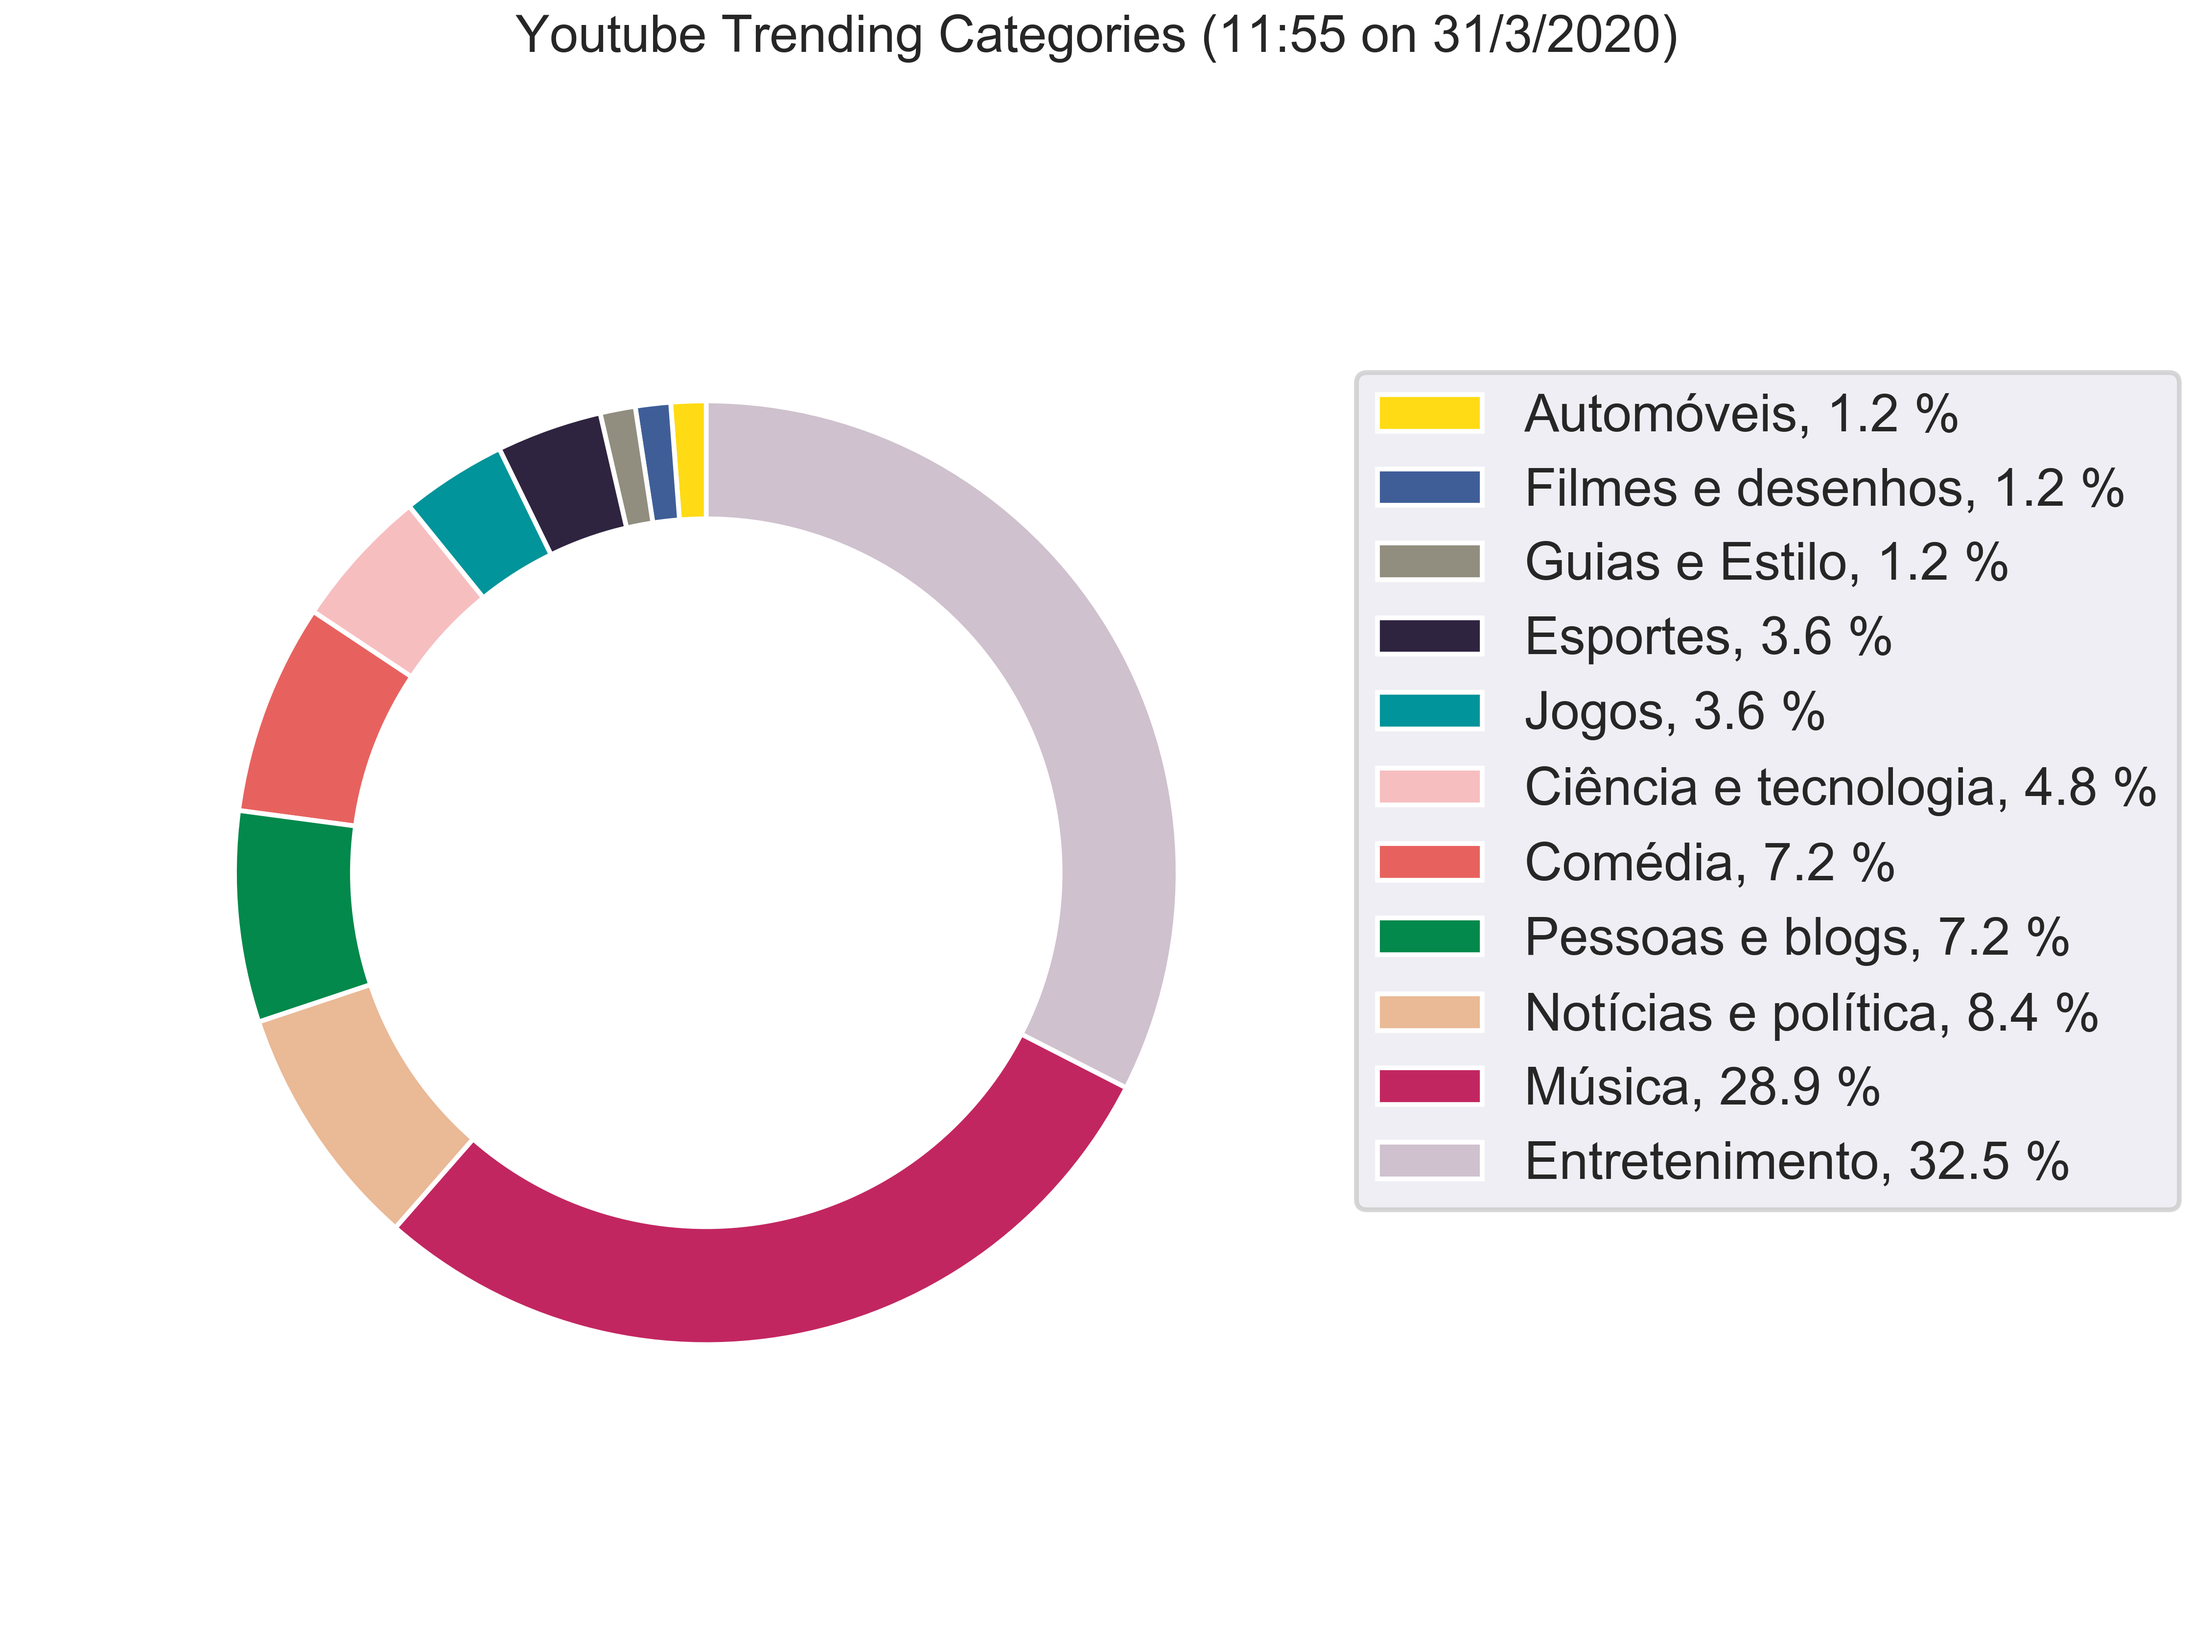
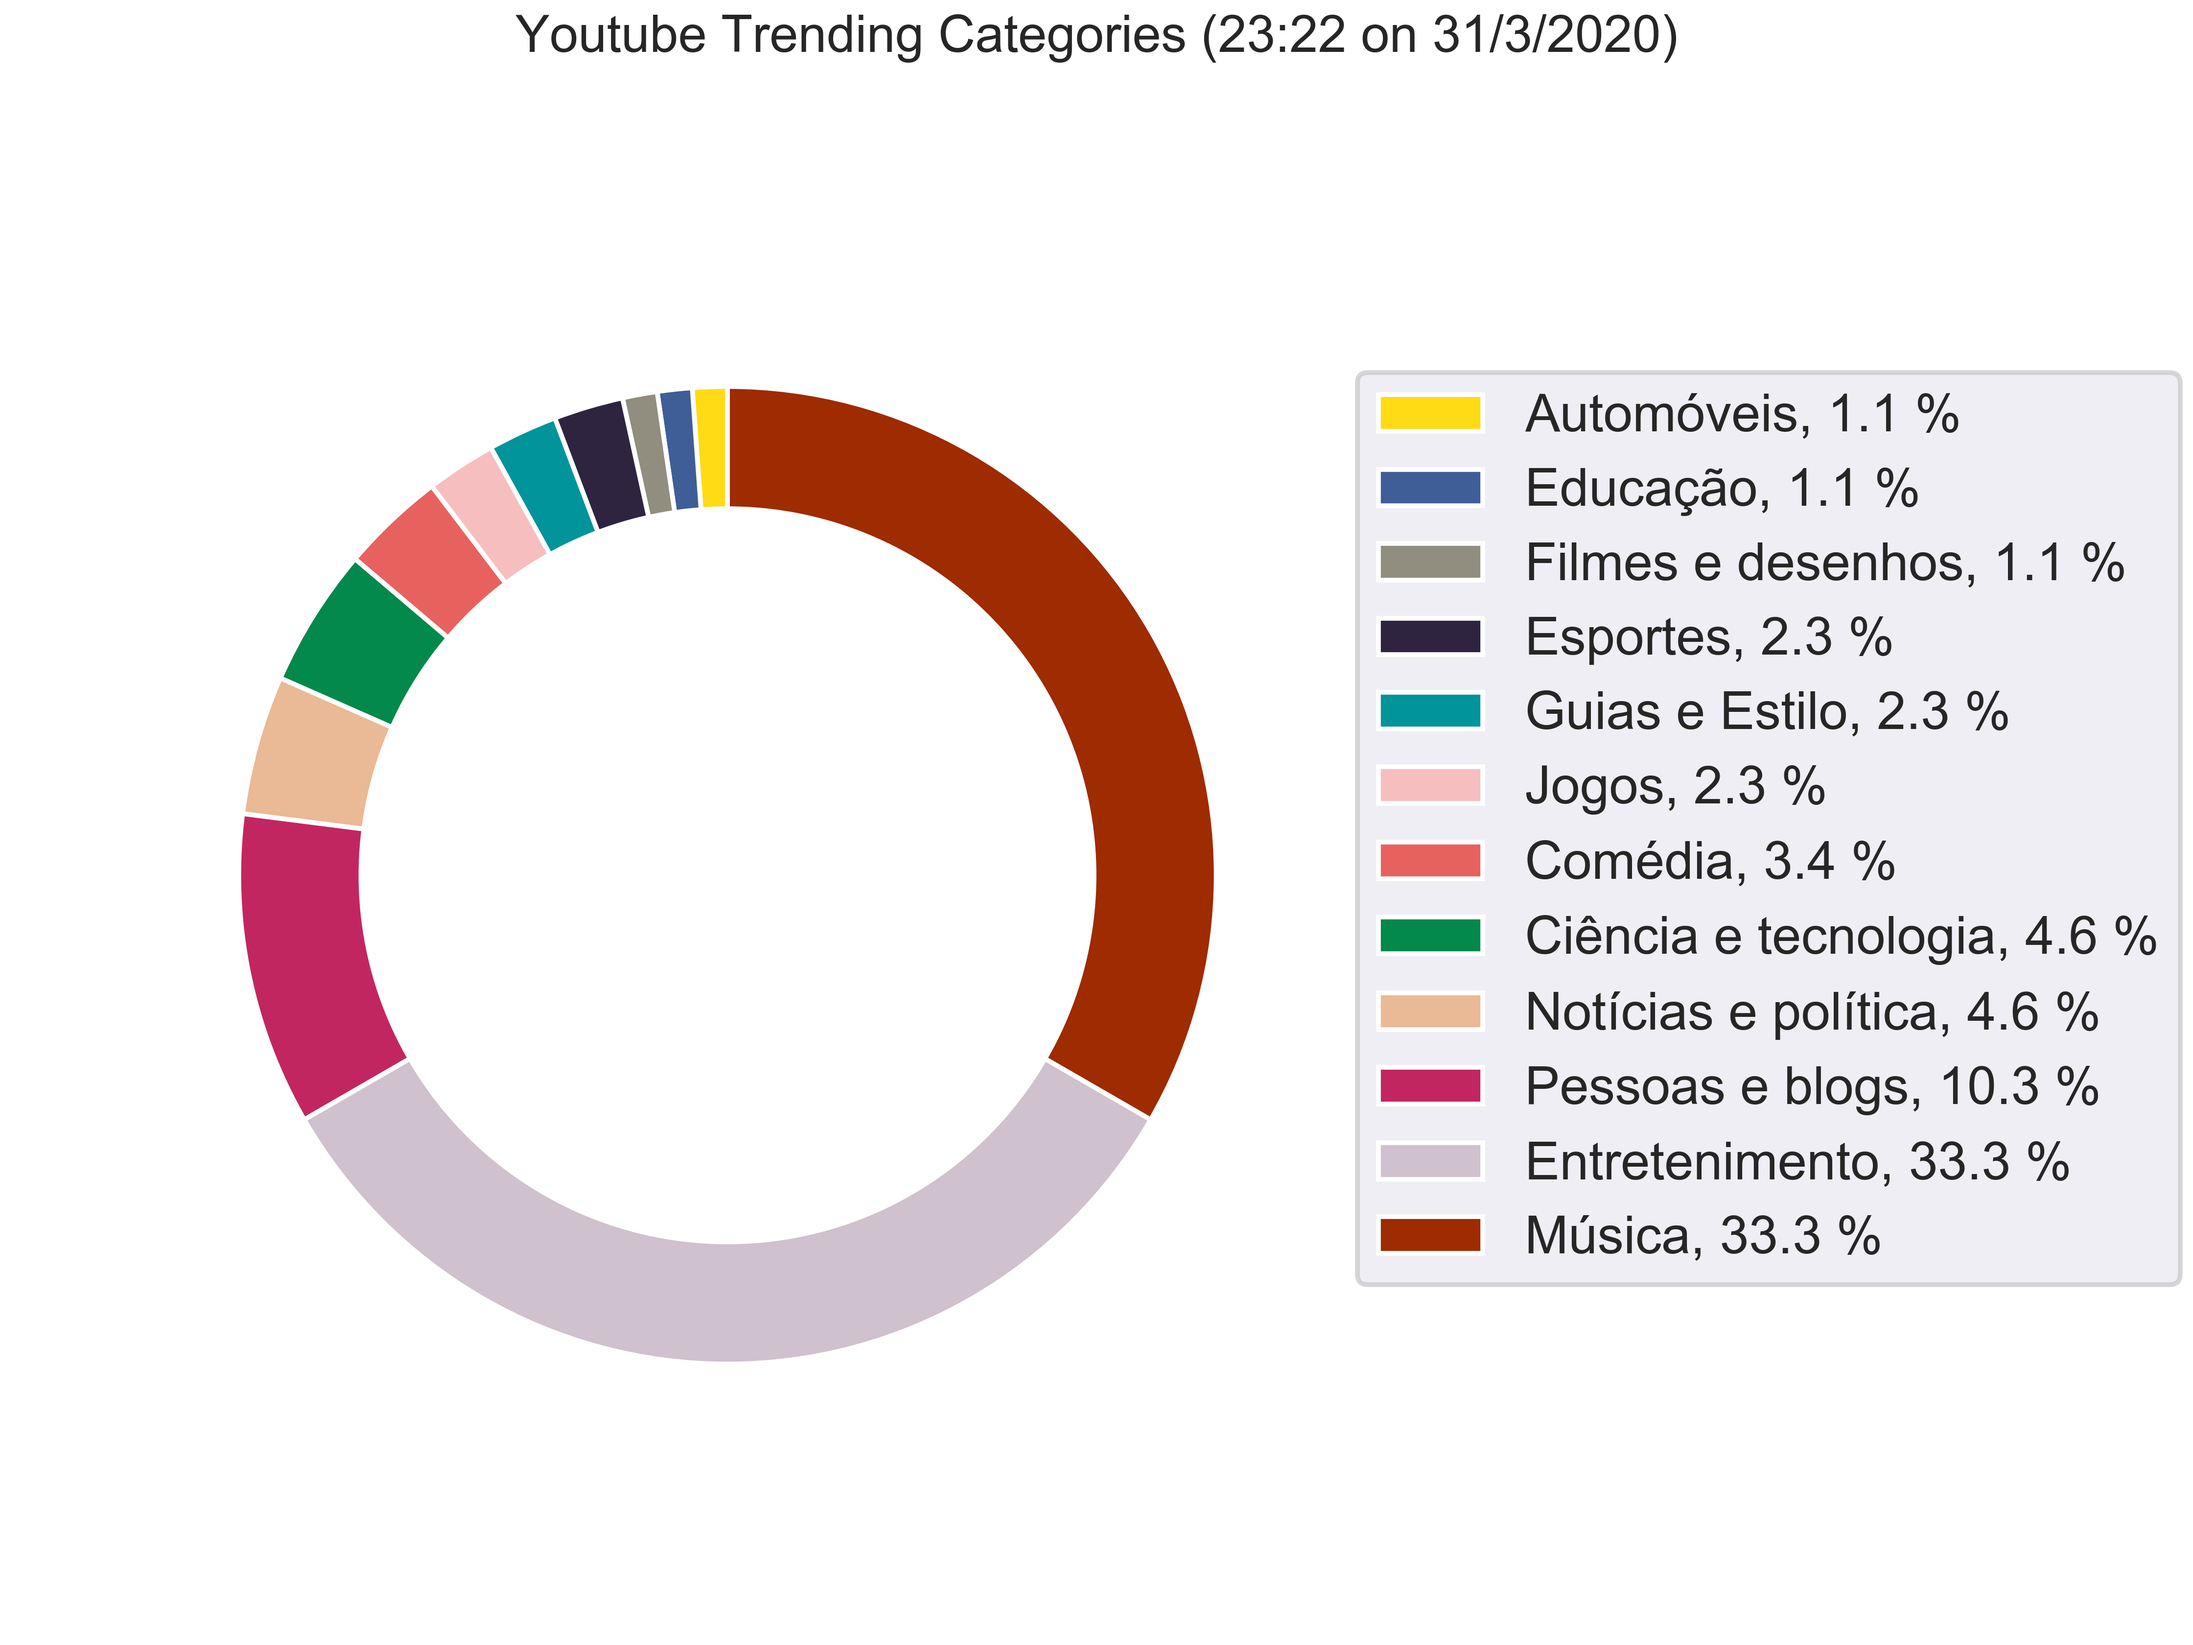
small changes

diff --git a/scraper.py b/scraper.py
@@ -54,6 +54,7 @@ def percent(n, total):
 
 categories = []
 
+videos = videos[:3]
 # Runs the code bellow for each link
 for link in videos:
     print('========================================')
@@ -97,7 +98,7 @@ chart.axis('equal')
 
 # Sets legend
 percents = [percent(n, total) for n in data['n']]
-plt.legend(labels=['%s, %1.1f %%' % (l, s) for l, s in zip(data['Category'], percents)], loc=2, bbox_to_anchor=(.95,.85))
+plt.legend(labels=['%s, %1.1f %%' % (l, s) for l, s in zip(data['Category'], percents)], frameon=False, loc=2, bbox_to_anchor=(.94,.85))
 
 centre_circle = plt.Circle((0,0),0.75,fc='white')
 fig = plt.gcf()
